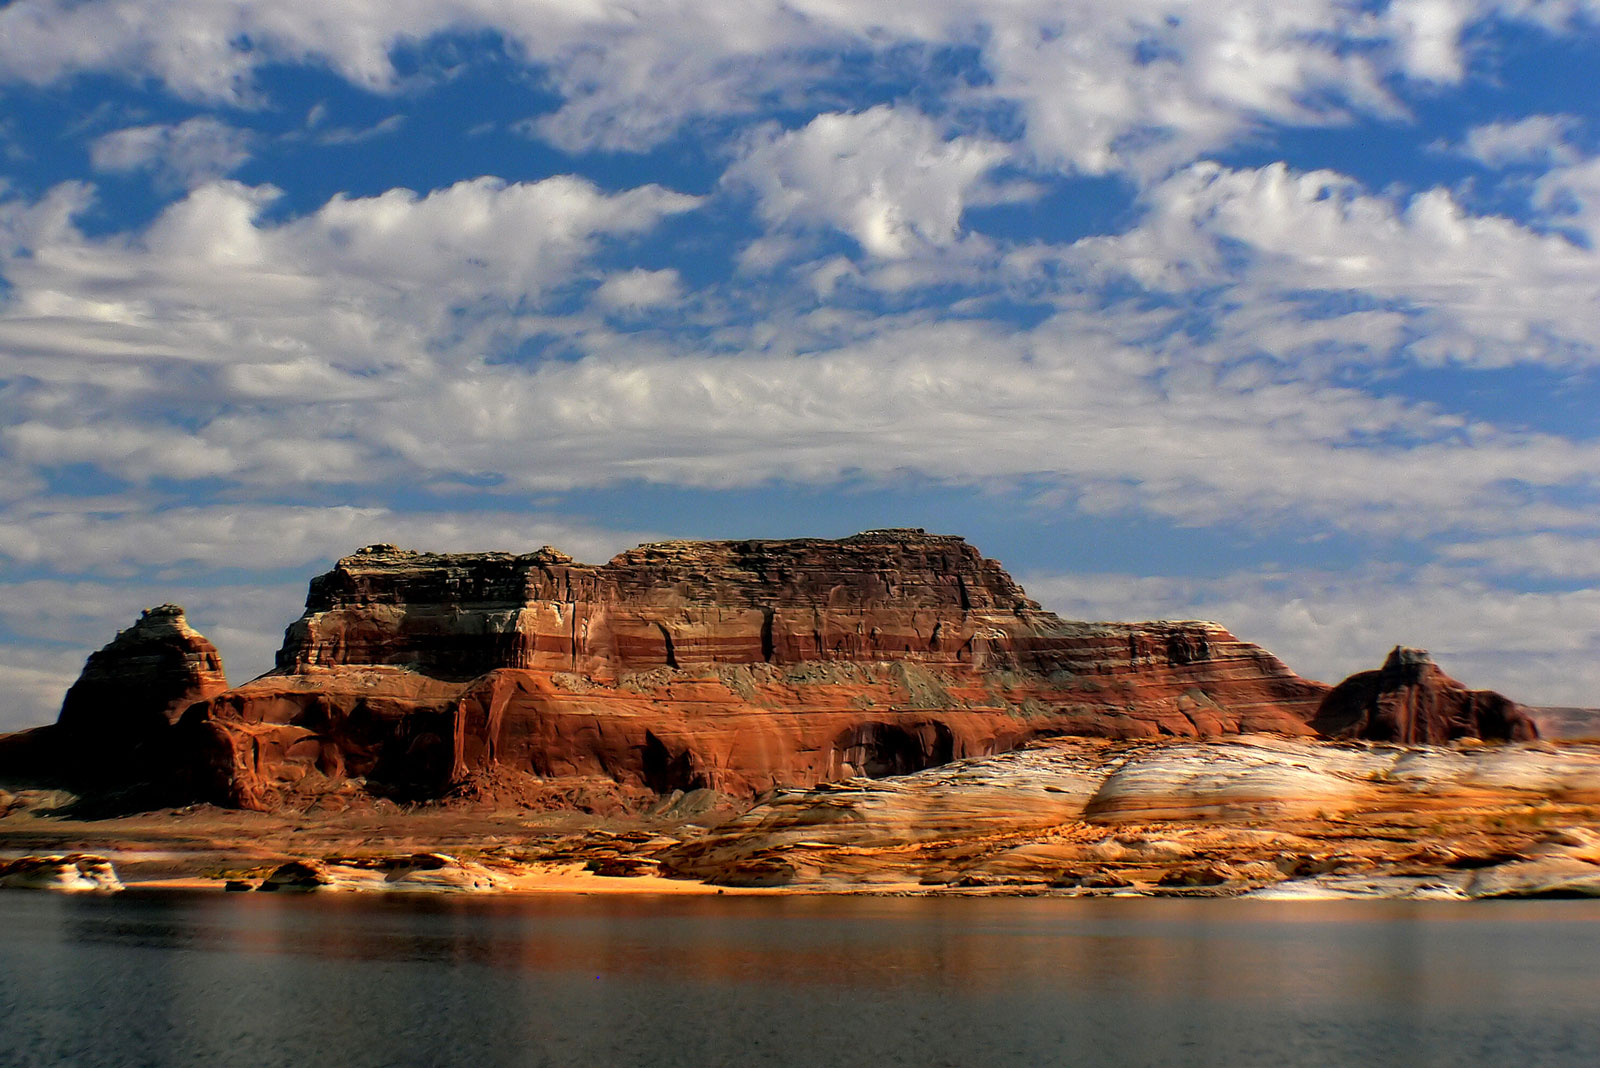
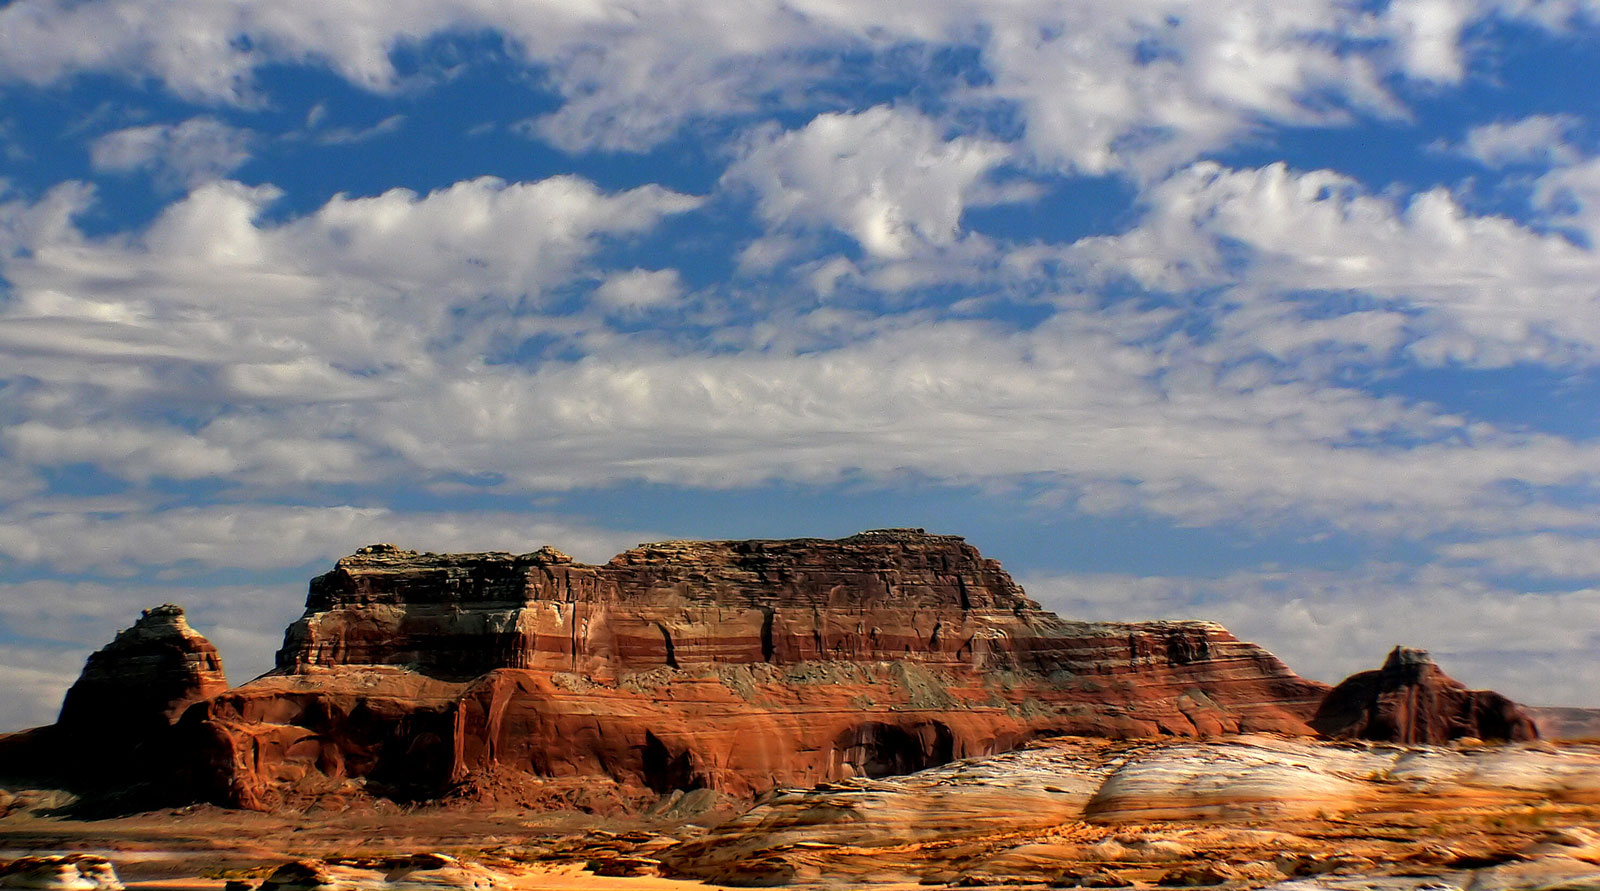
hooks up homepage splash

diff --git a/app/pages/Home.css b/app/pages/Home.css
@@ -1,0 +1,70 @@
+#Home {
+  text-align: center;
+  & .bg {
+    background-image: url("/img/home/bg/utah.jpg");
+    background-position: 50% 50%;
+    background-size: cover;
+    background-repeat: no-repeat;
+    border-bottom: 1px solid white;
+    height: 623px;
+    overflow: hidden;
+    position: absolute;
+    top: 0;
+    width: 100%;
+    z-index: -11;
+    &::after {
+      background-image: linear-gradient(rgba(20, 27, 46, 0), rgba(20, 27, 46, 0), rgba(20, 27, 46, 0.75));
+      content: "";
+      height: 623px;
+      left: 0;
+      position: absolute;
+      top: 0;
+      width: 100%;
+      z-index: -1;
+    }
+    & .line {
+      background-color: white;
+      content: "";
+      height: 1px;
+      opacity: 0.5;
+      position: absolute;
+      width: 100%;
+      left: 0;
+      top: 623px;
+      z-index: 1;
+    }
+  }
+  & .logo {
+    margin: 75px 50px 0;
+    max-width: 400px;
+  }
+  & .tagline {
+    color: white;
+    font-family: "Palanquin";
+    font-size: 26px;
+    font-weight: 600;
+    line-height: 31px;
+    margin: 10px 50px 0;
+    text-shadow: 0 0 12px rgba(0, 0, 0, 0.8);
+    text-transform: uppercase;
+    & a {
+      border-bottom: 3px solid rgba(255, 255, 255, 0.5);
+      box-shadow: 0 4px 6px -6px #222;
+      color: white;
+      display: inline-block;
+      margin: 0 2px;
+      transition: border-color 0.2s;
+      &:hover {
+        border-color: white;
+        text-decoration: none;
+      }
+    }
+  }
+  & .sponsors {
+    margin: 10px 0 75px;
+    width: 100%;
+    & img {
+      height: 90px;
+    }
+  }
+}

diff --git a/app/pages/Home.jsx b/app/pages/Home.jsx
@@ -1,4 +1,5 @@
 import React, {Component} from "react";
+import "./Home.css";
 
 export default class Home extends Component {
 
@@ -6,7 +7,22 @@ export default class Home extends Component {
 
     return (
       <div id="Home">
-        Welcome to my Data USA
+        <div className="bg"></div>
+        <img className="logo" src="/img/home/logo-shadow.png" alt="Data USA" />
+        <h2 className="tagline">
+          <a href="/search">Search</a>, <a href="/map">map</a>, <a href="/profile/geo/chicago-il/?compare=seattle-wa">compare</a>, and <a href="/cart">download</a> U.S. data
+        </h2>
+        <div className="sponsors">
+          <a target="_blank" rel="noopener noreferrer" href="http://www2.deloitte.com/us/en.html">
+            <img id="deloitte" src="/img/home/logos/deloitte.png" />
+          </a>
+          <a target="_blank" rel="noopener noreferrer" href="http://macro.media.mit.edu/">
+            <img id="macro" src="/img/home/logos/mit.png" />
+          </a>
+          <a target="_blank" rel="noopener noreferrer" href="http://www.datawheel.us/">
+            <img id="datawheel" src="/img/home/logos/datawheel.png" />
+          </a>
+        </div>
       </div>
     );
 

diff --git a/app/App.jsx b/app/App.jsx
@@ -1,4 +1,5 @@
 import React, {Component} from "react";
+import "./App.css";
 
 export default class App extends Component {
 

diff --git a/app/App.css b/app/App.css
@@ -1,0 +1,1 @@
+@import url("https://fonts.googleapis.com/css?family=Palanquin:600");
